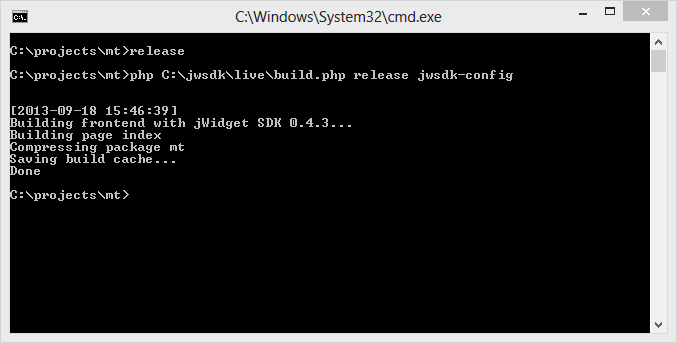
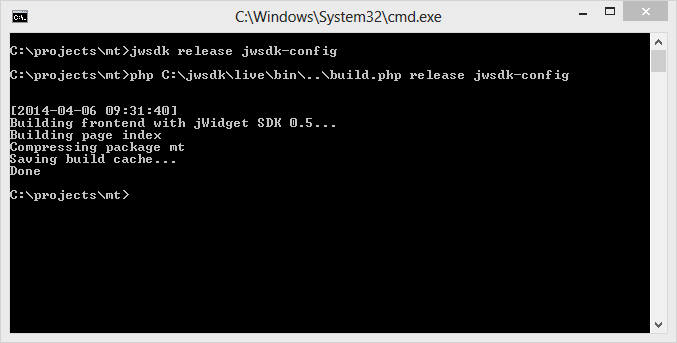
#69: Updated tutorial step 7.

diff --git a/guides/ensample7/README.md b/guides/ensample7/README.md
@@ -5,11 +5,12 @@ Demo: [http://enepomnyaschih.github.io/mt/0.8-7/](http://enepomnyaschih.github.i
 Source: [https://github.com/enepomnyaschih/mt/tree/mt-0.8-7](https://github.com/enepomnyaschih/mt/tree/mt-0.8-7) (Git branch)
 
 In this part, we'll improve project infrastructure: extract HTML templates into separate HTML files using
-[jWidget SDK](https://github.com/enepomnyaschih/jwsdk/wiki/ru) and will learn how to use
+[jWidget SDK](https://github.com/enepomnyaschih/jwsdk/wiki/en) and will learn how to use
 [Stylus](http://learnboost.github.io/stylus/) CSS-preprocessor to make slicing easier and more convenient.
 
 First, please install
-[jWidget SDK by instruction](https://github.com/enepomnyaschih/jwsdk/wiki/jWidget-SDK-setup) (steps 1-4).
+[jWidget SDK by instruction](https://github.com/enepomnyaschih/jwsdk/wiki/jWidget-SDK-setup). Use `empty_project_html`
+as a template on step 4.
 
 Next, create "mt" package for our project.
 
@@ -50,7 +51,7 @@ Create "index" page.
     }
 
 Also we want to make sure that our project will work on [GitHub Pages](http://pages.github.com/), but they don't
-support ".htaccess" file. So let's transform global project configuration a little bit, to make sure that out
+support ".htaccess" file. So let's transform global project configuration a little bit, to make sure that our
 output HTML files will be generated in document root and all URLs will be relative.
 Change next options in jwsdk-config/config.json file:
 
@@ -59,7 +60,9 @@ Change next options in jwsdk-config/config.json file:
 
 And delete public/.htaccess file.
 
-Compile project using "debug" script in project root.
+Compile project from command line in your project root directory:
+
+    jwsdk debug jwsdk-config
 
 {@img debug.png}
 
@@ -74,14 +77,15 @@ Open public/index.html and see that its content has been changed.
             <meta http-equiv="content-type" content="text/html; charset=UTF-8" />
             <meta http-equiv="X-UA-Compatible" content="IE=9" />
             
-            
-            
             <title>Mini-Twitter</title>
             <link rel="stylesheet" type="text/css" href="thirdparty/reset.css?timestamp=1379314418" />
             <link rel="stylesheet" type="text/css" href="mt/application/application.css?timestamp=1379409267" />
             <link rel="stylesheet" type="text/css" href="mt/profilebox/profilebox.css?timestamp=1379409410" />
             <link rel="stylesheet" type="text/css" href="mt/tweetfeed/tweetfeed.css?timestamp=1379402158" />
             <link rel="stylesheet" type="text/css" href="mt/tweetview/tweetview.css?timestamp=1379401729" />
+        </head>
+        <body>
+            
             <script type="text/javascript" charset="utf-8" src="thirdparty/jquery/jquery-1.9.0.js?timestamp=1379314418"></script>
             <script type="text/javascript" charset="utf-8" src="thirdparty/jwidget/jwlib.js?timestamp=1379402641"></script>
             <script type="text/javascript" charset="utf-8" src="thirdparty/jwidget/jwui.js?timestamp=1379402641"></script>
@@ -94,9 +98,6 @@ Open public/index.html and see that its content has been changed.
             <script type="text/javascript" charset="utf-8" src="mt/tweetfeed/tweetfeed.js?timestamp=1379424016"></script>
             <script type="text/javascript" charset="utf-8" src="mt/tweetview/tweetview.js?timestamp=1379424018"></script>
             <script type="text/javascript" charset="utf-8" src="boot.js?timestamp=1379414626"></script>
-        </head>
-        <body>
-            
         </body>
     </html>
 
@@ -107,11 +108,12 @@ Run application in browser and you'll see that it works as before.
 Now, the rule is simple: **it is recommended to re-compile the project after each code or project configuration
 modification.** At least, to update timestamps of modified files to make sure that they won't be taken from
 browser cache. Other reasons why you must re-compile project before run, will be described later. Now, just
-keep this rule in your mind, and you'll get used to have an opened console with "debug" command in history ready to go.
+keep this rule in your mind, and you'll get used to have an opened console with "jwsdk debug jwsdk-config" command
+in history ready to go.
 
 jWidget SDK not just makes project development easy and fun: you'll be able to minify your code easily,
 add dynamic script loading and perform other improvements/optimizations. For whoever is interested, you can
-try to compile the project via "release" script:
+try to compile the project via "jwsdk release jwsdk-config" command:
 
 {@img release.png}
 
@@ -127,22 +129,20 @@ Release compilation is performed quite longer, but it optimizes project loading 
             <meta http-equiv="content-type" content="text/html; charset=UTF-8" />
             <meta http-equiv="X-UA-Compatible" content="IE=9" />
             
-            
             <!-- Insert production meta tags here -->
-            
             
             <title>Mini-Twitter</title>
             <link rel="stylesheet" type="text/css" href="thirdparty/reset.css?timestamp=1379314418" />
             <link rel="stylesheet" type="text/css" href="build/packages/mt.min.css?timestamp=1379490399" />
-            <script type="text/javascript" charset="utf-8" src="thirdparty/jquery/jquery-1.9.0.min.js?timestamp=1379314418"></script>
-            <script type="text/javascript" charset="utf-8" src="thirdparty/jwidget/jwlib.min.js?timestamp=1379402641"></script>
-            <script type="text/javascript" charset="utf-8" src="thirdparty/jwidget/jwui.min.js?timestamp=1379402641"></script>
-            <script type="text/javascript" charset="utf-8" src="build/packages/mt.min.js?timestamp=1379490400"></script>
         </head>
         <body>
             
             <!-- Insert external services here -->
             
+            <script type="text/javascript" charset="utf-8" src="thirdparty/jquery/jquery-1.9.0.min.js?timestamp=1379314418"></script>
+            <script type="text/javascript" charset="utf-8" src="thirdparty/jwidget/jwlib.min.js?timestamp=1379402641"></script>
+            <script type="text/javascript" charset="utf-8" src="thirdparty/jwidget/jwui.min.js?timestamp=1379402641"></script>
+            <script type="text/javascript" charset="utf-8" src="build/packages/mt.min.js?timestamp=1379490400"></script>
         </body>
     </html>
 
@@ -183,17 +183,17 @@ Just move HTML of these templates into separate files with jw.html extension.
             <div class="clear"></div>
         </a>
         <div jwid="middle">
-            <a jwid="tweets" class="blocklink mt-profile-box-count" href="#" target="_blank">
-                <div jwid="tweets-value" class="mt-profile-box-count-value"></div>
-                <div class="mt-profile-box-count-label">TWEETS</div>
+            <a jwid="count tweets" class="blocklink" href="#" target="_blank">
+                <div jwid="count-value tweets-value"></div>
+                <div jwid="count-label">TWEETS</div>
             </a>
-            <a jwid="following" class="blocklink mt-profile-box-count mt-profile-box-count-border" href="https://twitter.com/following" target="_blank">
-                <div jwid="following-value" class="mt-profile-box-count-value"></div>
-                <div class="mt-profile-box-count-label">FOLLOWING</div>
+            <a jwid="count count-border following" class="blocklink" href="https://twitter.com/following" target="_blank">
+                <div jwid="count-value following-value"></div>
+                <div jwid="count-label">FOLLOWING</div>
             </a>
-            <a jwid="followers" class="blocklink mt-profile-box-count mt-profile-box-count-border" href="https://twitter.com/followers" target="_blank">
-                <div jwid="followers-value" class="mt-profile-box-count-value"></div>
-                <div class="mt-profile-box-count-label">FOLLOWERS</div>
+            <a jwid="count count-border followers" class="blocklink" href="https://twitter.com/followers" target="_blank">
+                <div jwid="count-value followers-value"></div>
+                <div jwid="count-label">FOLLOWERS</div>
             </a>
             <div class="clear"></div>
         </div>
@@ -230,15 +230,15 @@ Just move HTML of these templates into separate files with jw.html extension.
             </div>
             <div jwid="text"></div>
             <div jwid="buttons">
-                <a jwid="like" class="mt-tweet-button" href="#"></a>
-                <a jwid="retweet" class="mt-tweet-button" href="#"></a>
-                <a jwid="remove" class="mt-tweet-button" href="#">Remove</a>
+                <a jwid="button like" href="#"></a>
+                <a jwid="button retweet" href="#"></a>
+                <a jwid="button remove" href="#">Remove</a>
             </div>
         </div>
         <div class="clear"></div>
     </div>
 
-Next, remove all JW.UI.template calls from source js files.
+Please remove all JW.UI.template calls from source js files.
 
 Add new files into jwsdk-config/packages/mt.json package configuration and bind them to corresponding
 JW.UI.Component subclasses:
@@ -257,7 +257,7 @@ JW.UI.Component subclasses:
             "mt/tweetview/tweetview.jw.html : mt.TweetView",
             // ...
 
-Compile project with "debug" script and open it in browser. You'll see that it works as before.
+Compile project with "jwsdk debug jwsdk-config" command and open it in browser. You'll see that it works as before.
 
 {@img application.png}
 
